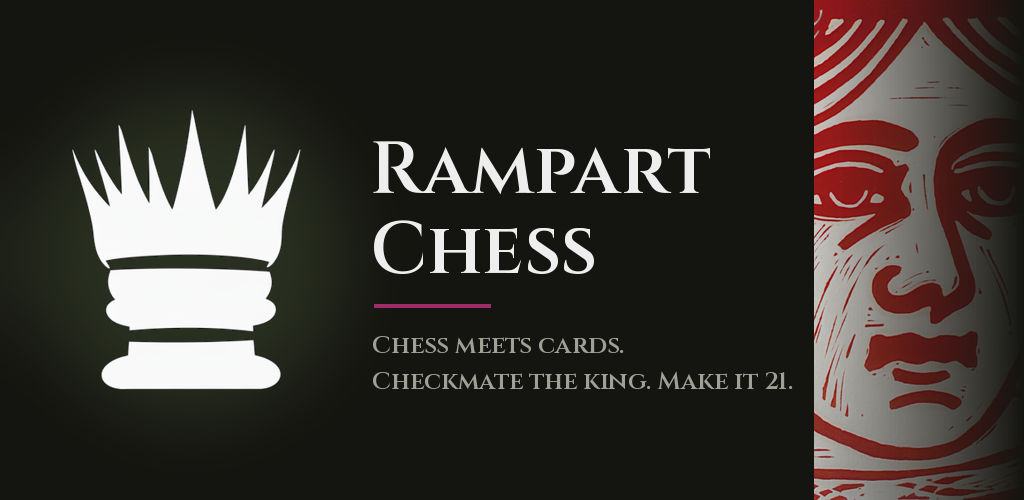
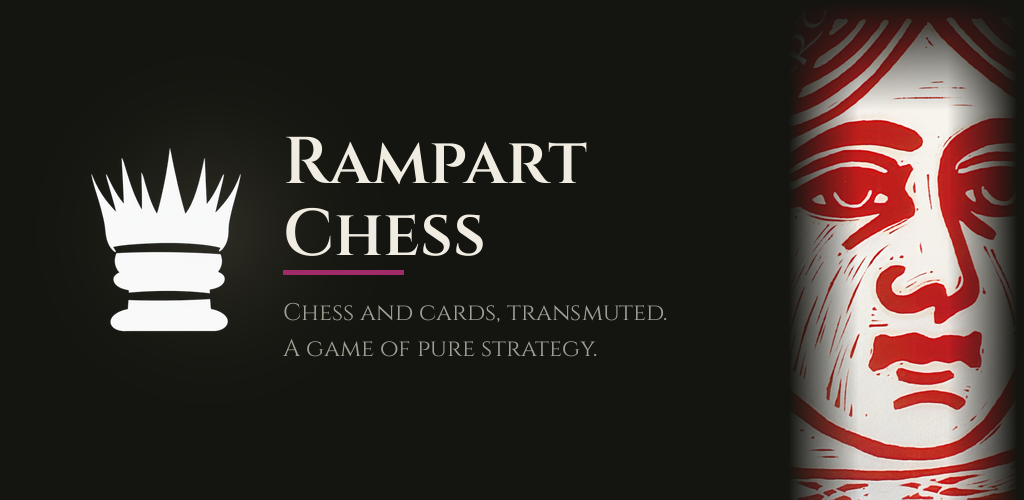
feature graphic: new alchemy-flavored tagline, re-cropped queen art

Changed region(s): [[0.3438, 0.0, 1.0, 1.0], [0.0625, 0.24, 0.6875, 0.78]]

diff --git a/play_launch/06_store_listing/NOTES.md b/play_launch/06_store_listing/NOTES.md
@@ -23,3 +23,11 @@ Observed in the emulator (real-phone behavior UNVERIFIED): entering fullscreen w
 landscape" overlay - screen.orientation.lock('landscape') (web/js/mobile.js, best-effort by design) was not honored by the
 Android WebView. Players with auto-rotate on just turn the phone; players with rotation locked would have to unlock it. A native
 landscape lock (small Capacitor/Java change) would make this smoother - optional, not a store blocker.
+
+## Feature graphic UPDATE 2026-09-22
+Replaced feature_graphic_1024x500.png: same layout/crown/rule as before, new tagline "Chess and cards,
+transmuted. A game of pure strategy." (echoes short_description.txt's "while remaining a game of pure
+strategy"), queen art re-cropped centered on the face (was showing the "Rampart" script sliver + dark
+spire edge before), fades on all sides. Rebuilt with PIL from web/assets/misc/logo_crown.png +
+fonts/cinzel/Cinzel-SemiBold.ttf + rampart_bg.png (no source file existed for the original - recreated
+to match). 1024x500, RGB, no alpha - matches Play's requirement.
